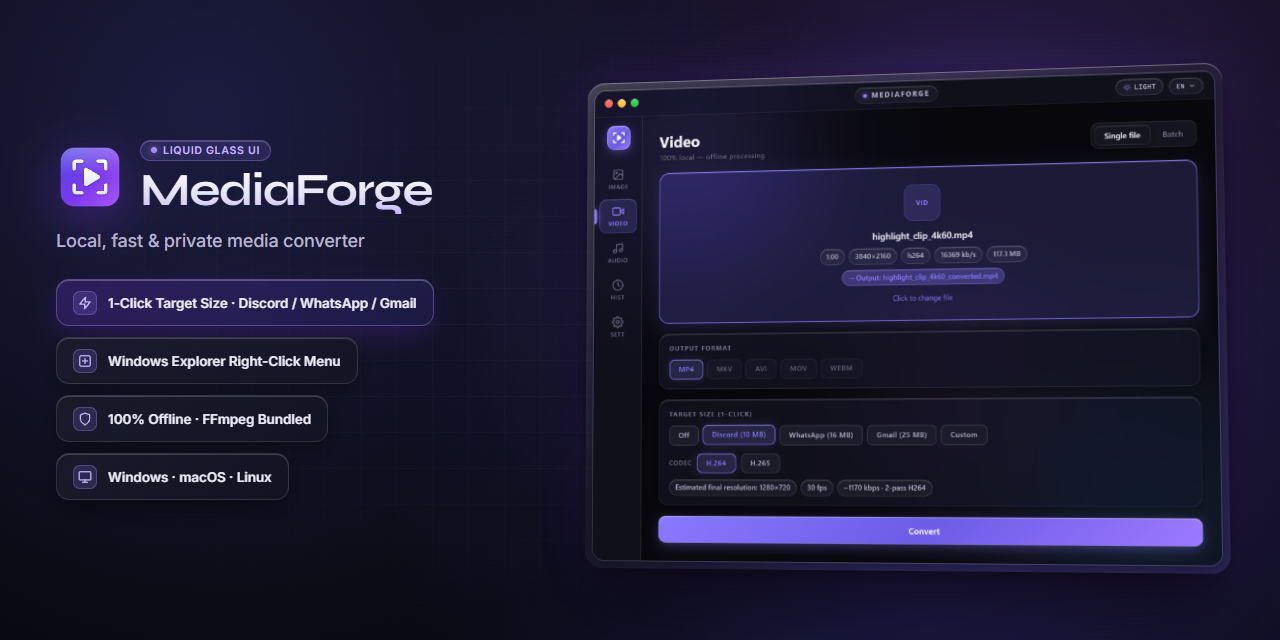
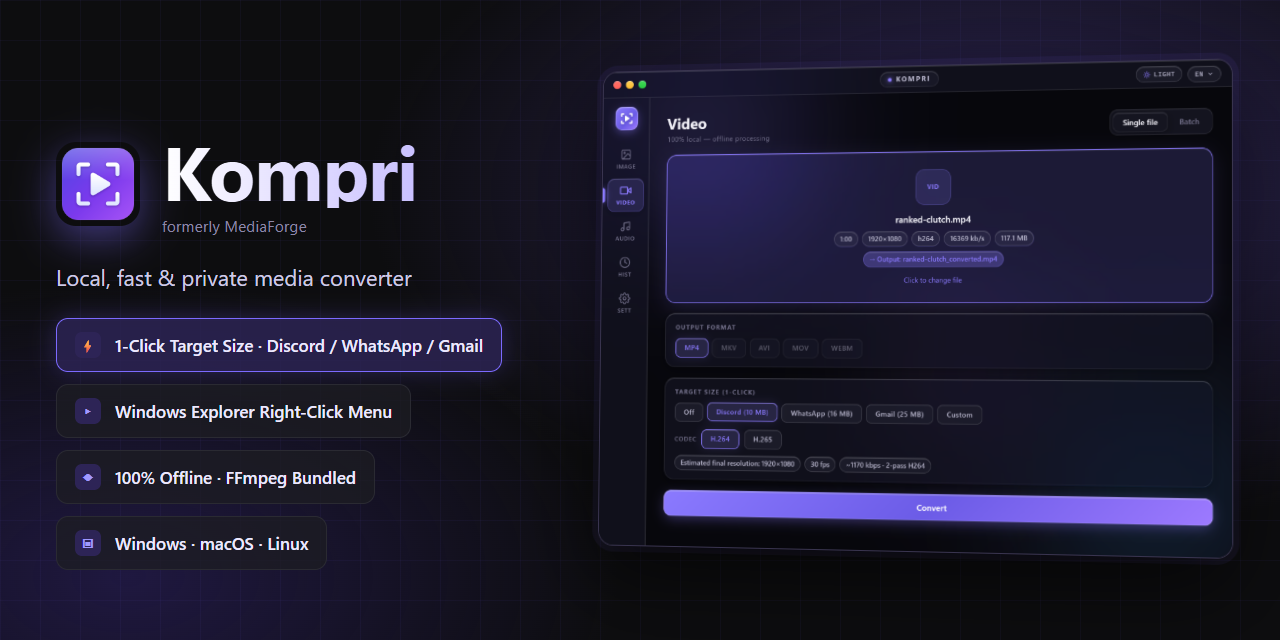
docs(assets): regenerate README demo and social preview as Kompri
npm run record-demo re-recorded with the Kompri title bar. New
npm run social-preview builds the 1280x640 card from a screenshot of the
real UI in the demo harness, so it shows the documented clip (1920x1080,
117.1 MB, Discord 10 MB plan at 1170 kbps / 30 fps) instead of the
previous 4K/1280x720 numbers.

diff --git a/scripts/record-demo/README.md b/scripts/record-demo/README.md
@@ -5,12 +5,14 @@ Regenerates the README demo (`docs/assets/kompri-demo.gif` and `.mp4`) from the 
 ```bash
 npx playwright install chromium   # once (or set CHROME_PATH to an installed Chrome/Edge)
 npm run record-demo               # needs ffmpeg on PATH
+npm run social-preview            # docs/assets/social-preview.png (1280x640)
 ```
 
 ## How it works
 
 - `index.html` + `demo-main.ts` boot the real React app (`src/main.tsx`) in a browser, with the Tauri backend replaced by `mockIPC` from `@tauri-apps/api/mocks`.
 - `record.mjs` starts Vite, drives the scenario with Playwright (Video tab, drag & drop, Discord 10 MB preset, Convert, History) and converts the recording to GIF and MP4 with ffmpeg.
+- `social-preview.mjs` screenshots the same harness (Video tab, source clip loaded, Discord preset selected) and composes the 1280×640 GitHub social preview card around it, so the numbers on the card are the documented ones.
 - `cursor.js` draws a visible cursor, click ripples and the dragged-file ghost (headless recordings have no cursor) and pauses the ambient background animation to keep the GIF small.
 
 ## Honesty rules for the demo
